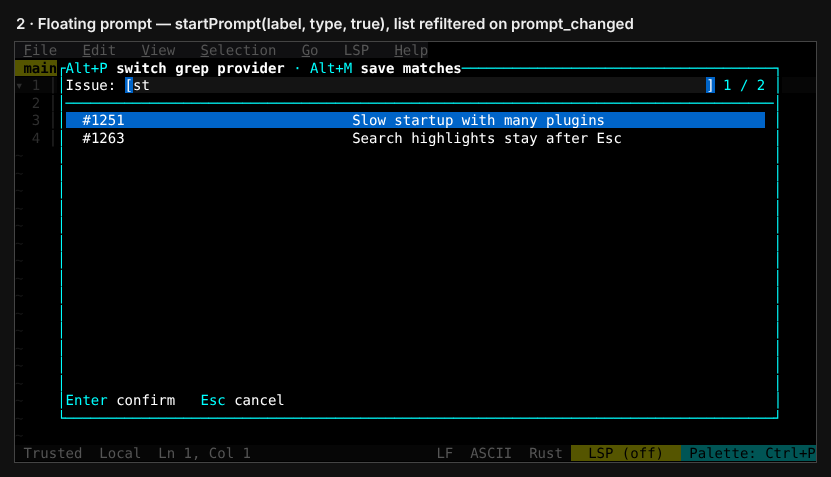
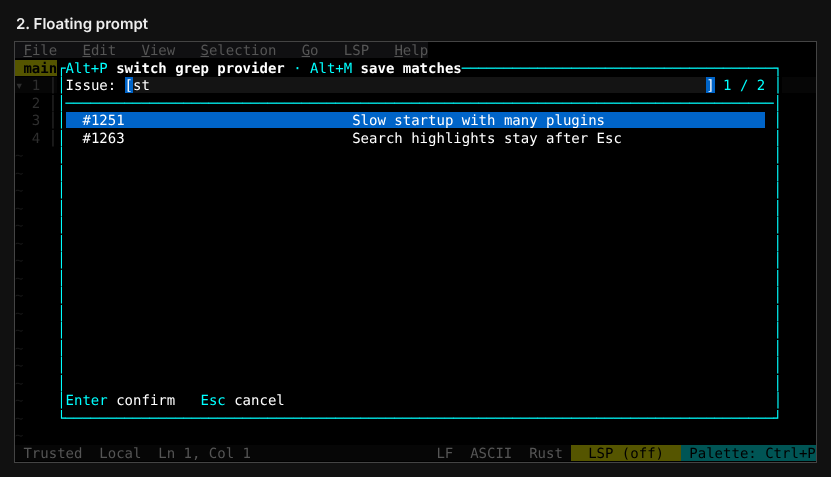
docs: simplify the asking-for-input page
Shorter, plain-language text for each input method, and plain titles on
the screenshots.

Claude-Session: https://claude.ai/code/session_016HnGjktBeuomeVND8b6ygX

Changed region(s): [[0.0301, 0.0294, 0.7822, 0.0881]]

diff --git a/docs/plugins/examples/asking-for-input/index.md b/docs/plugins/examples/asking-for-input/index.md
@@ -1,91 +1,63 @@
-# Asking the user for input from a plugin
+# Asking the user for input
 
-A plugin has seven ways to ask the user for input. Each example below is a
-standalone file that registers one `Ask: …` command, asks, and reports the
-answer in the status bar. Paste one into `~/.config/fresh/init.ts`
-(Ctrl+P → `init: Edit init.ts`, then `init: Reload init.ts`), or drop it into a
-plugin. Then run the command from the palette.
-
-Tested with Fresh 0.5.2.
-
-| # | Method | API | Use it for |
-|---|--------|-----|------------|
-| 1 | [Prompt line](#1-prompt-line) | `await editor.prompt()` | One value, with the least code |
-| 2 | [Floating prompt](#2-floating-prompt) | `startPrompt(…, true)` + `prompt_changed` | Type to search, then pick or enter free text |
-| 3 | [Pick list](#3-pick-list) | `startPrompt` + `setPromptSuggestions` | Choosing from a known set |
-| 4 | [Modal dialog](#4-modal-dialog) | `mountFloatingWidget` + `widget_event` | Several fields at once, with buttons |
-| 5 | [Action popup](#5-action-popup) | `showActionPopup` + `action_popup_result` | A short question with a few answers |
-| 6 | [Single keypress](#6-single-keypress) | `await editor.getNextKey()` | One-key answers (1–9, y/n) |
-| 7 | [File picker](#7-file-picker) | `await editor.pickFile()` | Choosing a file path |
+There are seven ways a plugin can ask the user for input. Each example adds an `Ask: …` command to the command palette. Paste one into `~/.config/fresh/init.ts` to try it.
 
 ## 1. Prompt line
 
-[`1_prompt_line.ts`](https://github.com/sinelaw/fresh/blob/master/docs/plugins/examples/asking-for-input/1_prompt_line.ts)
+Asks for text on the bottom line. This takes the least code.
 
 ```ts
 const value = await editor.prompt("Issue number:", "");
-if (value === null) return; // Esc
 ```
+
+[Example code](https://github.com/sinelaw/fresh/blob/master/docs/plugins/examples/asking-for-input/1_prompt_line.ts)
 
 ![Prompt line](./screenshots/1.png)
 
 ## 2. Floating prompt
 
-[`2_floating_prompt.ts`](https://github.com/sinelaw/fresh/blob/master/docs/plugins/examples/asking-for-input/2_floating_prompt.ts)
+Asks for text in a box in the middle of the screen, with a list under it. The list can update as the user types.
 
-This is the same prompt drawn as a centred card with a results pane, the way
-Live Grep uses it. `prompt_changed` fires on every keystroke so the plugin can
-refilter the list. The answer arrives in `prompt_confirmed`.
+[Example code](https://github.com/sinelaw/fresh/blob/master/docs/plugins/examples/asking-for-input/2_floating_prompt.ts)
 
 ![Floating prompt](./screenshots/2.png)
 
 ## 3. Pick list
 
-[`3_pick_list.ts`](https://github.com/sinelaw/fresh/blob/master/docs/plugins/examples/asking-for-input/3_pick_list.ts)
+Shows a list of choices on the bottom line. The user picks one.
 
-The bottom prompt with suggestions. The chosen suggestion's `value` arrives as
-`input` in `prompt_confirmed`.
+[Example code](https://github.com/sinelaw/fresh/blob/master/docs/plugins/examples/asking-for-input/3_pick_list.ts)
 
 ![Pick list](./screenshots/3.png)
 
-## 4. Modal dialog
+## 4. Dialog
 
-[`4_modal_dialog.ts`](https://github.com/sinelaw/fresh/blob/master/docs/plugins/examples/asking-for-input/4_modal_dialog.ts)
+Shows a dialog box with fields, checkboxes and buttons. Use it to ask for several things at once.
 
-This is the machinery behind the Orchestrator's dialogs. A titled, closable
-panel holds real controls: text fields, checkboxes, dropdowns and buttons. The
-editor handles typing, focus and Tab. The plugin receives `widget_event`s
-(`change`, `toggle`, `activate`, `cancel`) and calls `updateFloatingWidget` to
-re-render after it changes state such as the checkbox. The bundled plugins
-build the spec with helpers from `lib/widgets.ts`. A standalone `init.ts`
-writes the spec out by hand.
+[Example code](https://github.com/sinelaw/fresh/blob/master/docs/plugins/examples/asking-for-input/4_modal_dialog.ts)
 
-![Modal dialog](./screenshots/4.png)
+![Dialog](./screenshots/4.png)
 
-## 5. Action popup
+## 5. Popup
 
-[`5_action_popup.ts`](https://github.com/sinelaw/fresh/blob/master/docs/plugins/examples/asking-for-input/5_action_popup.ts)
+Shows a short message with a few choices.
 
-A titled message with a list of choices. The chosen `action_id` arrives in
-`action_popup_result`.
+[Example code](https://github.com/sinelaw/fresh/blob/master/docs/plugins/examples/asking-for-input/5_action_popup.ts)
 
-![Action popup](./screenshots/5.png)
+![Popup](./screenshots/5.png)
 
-## 6. Single keypress
+## 6. Single key
 
-[`6_single_key.ts`](https://github.com/sinelaw/fresh/blob/master/docs/plugins/examples/asking-for-input/6_single_key.ts)
+Waits for the user to press one key. The user doesn't press Enter.
 
-No input UI at all. The plugin shows a hint (here in the status bar) and takes
-the very next key, so the user doesn't need to press Enter. For loops that read
-several keys, wrap them in `beginKeyCapture()` / `endKeyCapture()`.
+[Example code](https://github.com/sinelaw/fresh/blob/master/docs/plugins/examples/asking-for-input/6_single_key.ts)
 
-![Single keypress](./screenshots/6.png)
+![Single key](./screenshots/6.png)
 
 ## 7. File picker
 
-[`7_file_picker.ts`](https://github.com/sinelaw/fresh/blob/master/docs/plugins/examples/asking-for-input/7_file_picker.ts)
+Lets the user choose a file. Returns the file's path.
 
-Fresh's own Open File browser. It resolves with the chosen path, or `null`, and
-opens nothing. The optional second argument sets the starting directory.
+[Example code](https://github.com/sinelaw/fresh/blob/master/docs/plugins/examples/asking-for-input/7_file_picker.ts)
 
 ![File picker](./screenshots/7.png)
